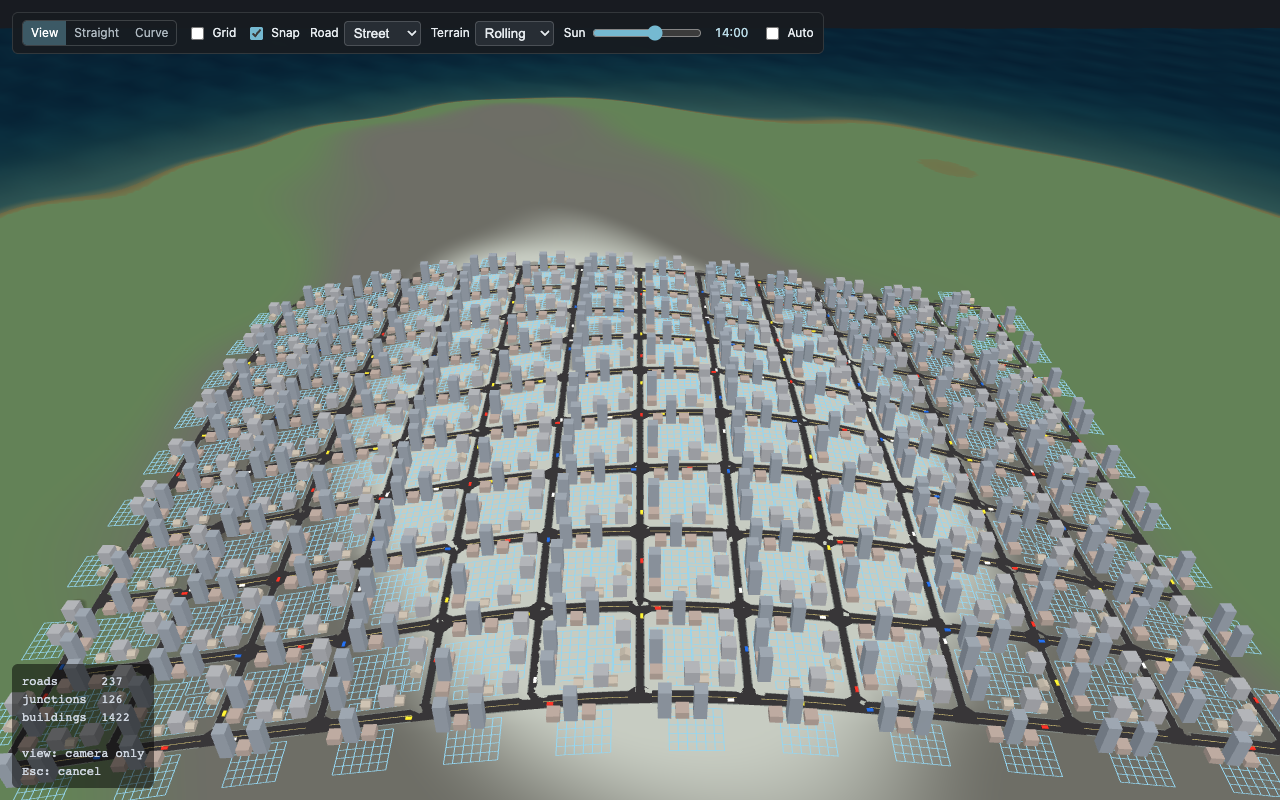
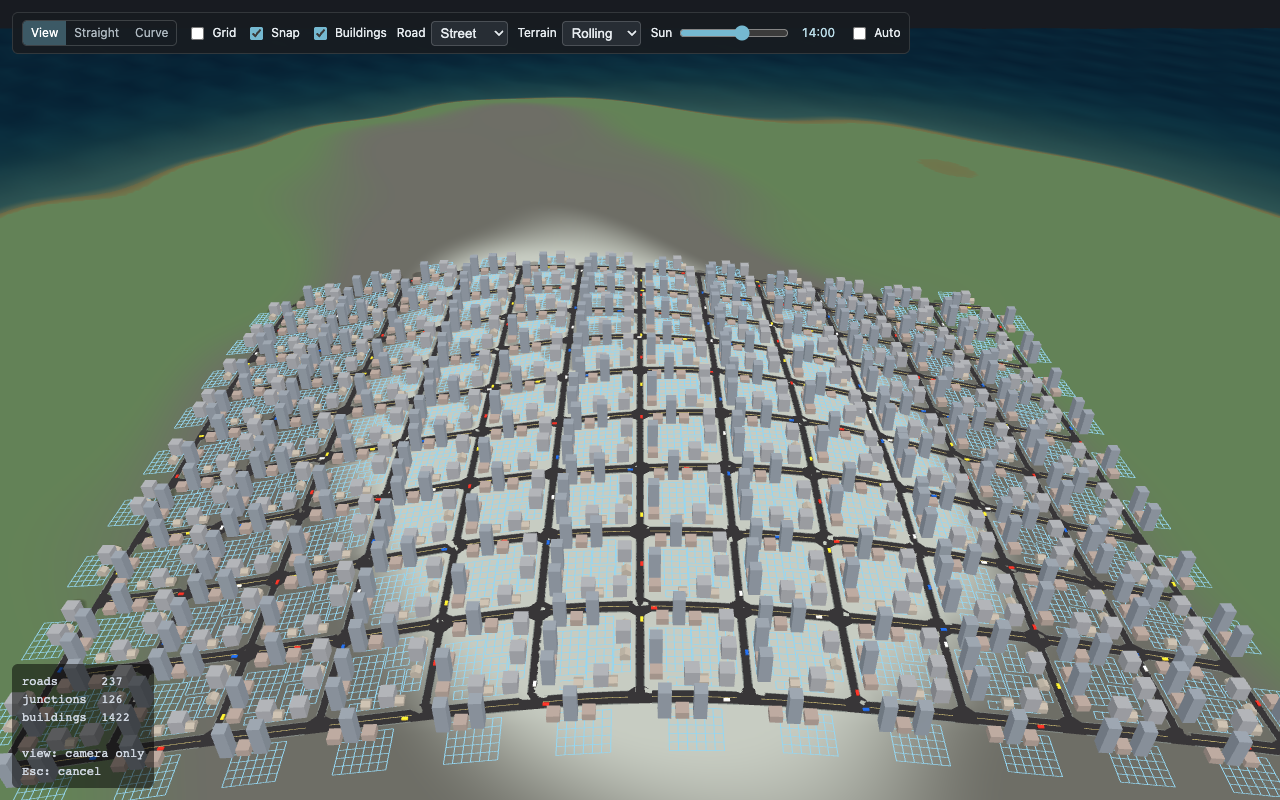
Toggle generated buildings

Changed region(s): [[0.25, 0.0312, 0.7188, 0.0625]]

diff --git a/src/render/buildings.ts b/src/render/buildings.ts
@@ -28,6 +28,7 @@ export async function createBuildingRenderer(scene: Scene, graph: RoadGraph, sha
   const models = await Promise.all(BUILDING_MODELS.map((id) => loadModel(scene, id, shadows)));
   const available = models.filter((m): m is Model => m !== null);
   let grid: LinesMesh | null = null;
+  let visible = true;
 
   function rebuild(): number {
     const slots = allSlots(graph);
@@ -49,6 +50,14 @@ export async function createBuildingRenderer(scene: Scene, graph: RoadGraph, sha
       grid.alpha = 0.65;
       grid.isPickable = false;
     }
+    if (!visible) {
+      for (const model of available) {
+        model.mesh.thinInstanceCount = 0;
+        model.mesh.setEnabled(false);
+      }
+      return 0;
+    }
+
     const buckets = new Map<string, Slot[]>(available.map((m) => [m.id, []]));
 
     for (const [i, slot] of slots.entries()) {
@@ -78,7 +87,7 @@ export async function createBuildingRenderer(scene: Scene, graph: RoadGraph, sha
     return placed;
   }
 
-  return { rebuild, modelCount: available.length };
+  return { rebuild, setVisible: (next: boolean) => (visible = next), modelCount: available.length };
 }
 
 /**

diff --git a/src/ui/controls.ts b/src/ui/controls.ts
@@ -3,6 +3,7 @@ export function bindControls(handlers: {
   onRoadType(type: "street" | "avenue" | "tunnel"): void;
   onWorldGrid(visible: boolean): void;
   onGridSnap(enabled: boolean): void;
+  onBuildings(visible: boolean): void;
   onTerrain(preset: "rolling" | "rugged"): boolean;
   onSunHour(hour: number): void;
 }): void {
@@ -18,6 +19,10 @@ export function bindControls(handlers: {
 
   document.getElementById("grid-snap")!.addEventListener("change", (event) => {
     handlers.onGridSnap((event.currentTarget as HTMLInputElement).checked);
+  });
+
+  document.getElementById("show-buildings")!.addEventListener("change", (event) => {
+    handlers.onBuildings((event.currentTarget as HTMLInputElement).checked);
   });
 
   document.getElementById("road-type")!.addEventListener("change", (event) => {

diff --git a/src/app/app.ts b/src/app/app.ts
@@ -70,6 +70,10 @@ export async function startApp(): Promise<void> {
       tool.setGridSnap(enabled);
       refreshHud();
     },
+    onBuildings(visible) {
+      buildings.setVisible(visible);
+      rebuild();
+    },
     onTerrain(preset) {
       if (graph.allSegments().length && !window.confirm("Changing terrain clears the current city. Continue?")) {
         return false;

diff --git a/index.html b/index.html
@@ -42,6 +42,7 @@
   </div>
   <label><input id="show-grid" type="checkbox" /> Grid</label>
   <label><input id="grid-snap" type="checkbox" checked /> Snap</label>
+  <label><input id="show-buildings" type="checkbox" checked /> Buildings</label>
   <label>Road
     <select id="road-type">
       <option value="street">Street</option>
